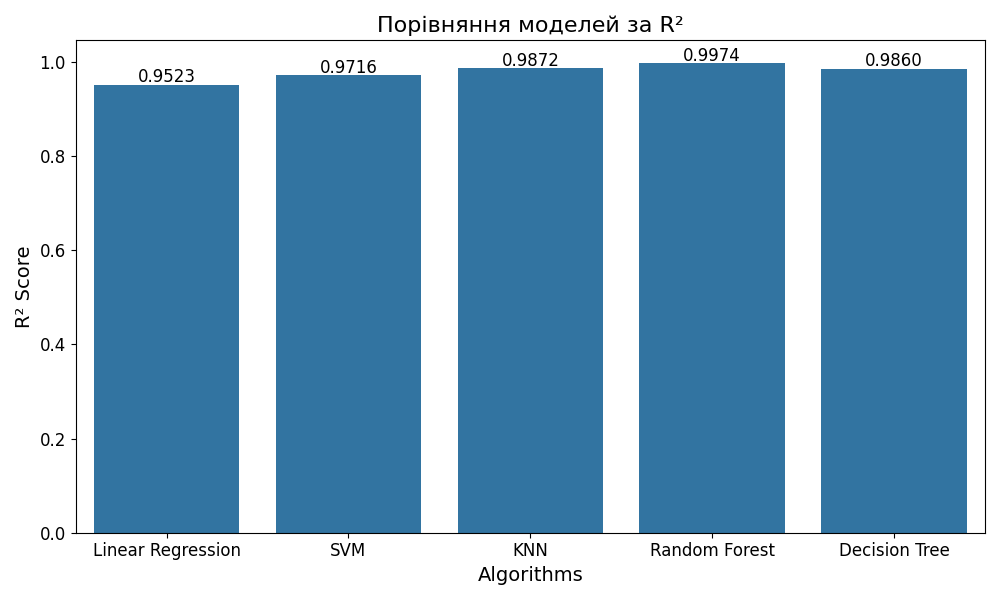
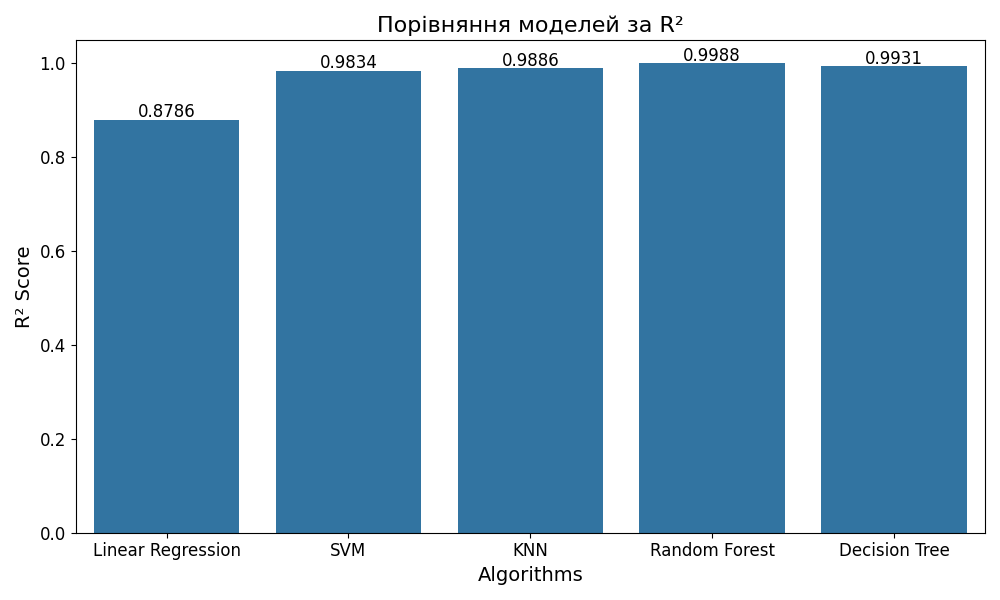
finish

diff --git a/insulin_dose.py b/insulin_dose.py
@@ -1,5 +1,6 @@
 import os
 import pandas as pd
+import numpy as np
 import seaborn as sns
 import matplotlib.pyplot as plt
 from sklearn.model_selection import train_test_split
@@ -11,113 +12,77 @@ from sklearn.ensemble import RandomForestRegressor
 from sklearn.tree import DecisionTreeRegressor
 from sklearn.metrics import mean_squared_error, r2_score
 
-def load_data(folder_path):
-    all_files = [os.path.join(folder_path, f) for f in os.listdir(folder_path) if f.endswith('.csv')]
-    data_list = []
+folder_path = "data/"
+all_files = [os.path.join(folder_path, f) for f in os.listdir(folder_path) if f.endswith('.csv')]
+data_list = []
 
-    for file in all_files:
-        temp_data = pd.read_csv(file, delimiter=';')
-        temp_data['patient_id'] = os.path.basename(file).split('.')[0]
-        data_list.append(temp_data)
+for file in all_files:
+    temp_data = pd.read_csv(file, delimiter=';')
+    temp_data['patient_id'] = os.path.basename(file).split('.')[0]
+    data_list.append(temp_data)
 
-    data = pd.concat(data_list, ignore_index=True)
-    data['time'] = pd.to_datetime(data['time'])
-    data['time_of_day'] = data['time'].dt.hour
-    return data
-
+data = pd.concat(data_list, ignore_index=True)
+data['time'] = pd.to_datetime(data['time'])
+data['time_of_day'] = data['time'].dt.hour
 
 def calculate_correction_insulin(row, target_glucose=120, correction_factor=45):
     correction = max(0, (row['glucose'] - target_glucose) / correction_factor)
     carb_effect = row.get('carb_input', 0) / 10
     basal_effect = row.get('basal_rate', 0) / 2
     bolus_effect = row.get('bolus_volume_delivered', 0)
+    heart_rate_effect = (row['heart_rate'] / 100) * 0.5
+    steps_effect = (row['steps'] / 10000) * 0.5
+    calorie_effect = (row['calories'] / 200) * 0.3
+    return max(0, correction + carb_effect - basal_effect - bolus_effect - heart_rate_effect - steps_effect - calorie_effect)
 
-    # Додавання ефекту від ЧСС та кількості кроків
-    heart_rate_effect = (row['heart_rate'] / 100) * 0.5  # ЧСС поділяємо на 100 і множимо на 0.5
-    steps_effect = (row['steps'] / 10000) * 0.5  # Кількість кроків поділяємо на 10000 і множимо на 0.5
+data['insulin_dose'] = data.apply(calculate_correction_insulin, axis=1)
 
-    return correction + carb_effect - basal_effect - bolus_effect - heart_rate_effect - steps_effect
-
-def prepare_features(data):
-    data['insulin_dose'] = data.apply(calculate_correction_insulin, axis=1)
-    X = data[['glucose', 'calories', 'basal_rate', 'bolus_volume_delivered', 'carb_input', 'time_of_day', 'heart_rate', 'steps']].fillna(0)
-    y = data['insulin_dose']
-    return X, y
-
-
-def train_models(X_train, y_train):
-    models = {
-        "Linear Regression": LinearRegression(),
-        "SVM": SVR(kernel='rbf', C=1, gamma='scale'),
-        "KNN": KNeighborsRegressor(n_neighbors=5, weights='distance'),
-        "Random Forest": RandomForestRegressor(n_estimators=200, max_depth=15, random_state=42),
-        "Decision Tree": DecisionTreeRegressor(max_depth=8, random_state=42)
-    }
-    trained_models = {name: model.fit(X_train, y_train) for name, model in models.items()}
-    return trained_models
-
-
-def evaluate_models(models, X_test, y_test):
-    results = {
-        name: {
-            "MSE": mean_squared_error(y_test, model.predict(X_test)),
-            "R²": r2_score(y_test, model.predict(X_test))
-        }
-        for name, model in models.items()
-    }
-    return pd.DataFrame(results).T
-
-
-def plot_results(results_df):
-    plt.figure(figsize=(10, 6))
-    sns.barplot(x=results_df.index, y=results_df["R²"])
-    plt.title("Порівняння моделей за R²", fontsize=16)
-    plt.ylabel("R² Score", fontsize=14)
-    plt.xlabel("Algorithms", fontsize=14)
-    plt.xticks(rotation=0, fontsize=12)
-    plt.yticks(fontsize=12)
-    for index, value in enumerate(results_df["R²"]):
-        plt.text(index, value + 0.005, f'{value:.4f}', ha='center', fontsize=12, color='black')
-    plt.tight_layout()
-    os.makedirs("results", exist_ok=True)
-    plt.savefig("results/result_algorithms.png")
-
-
-def predict_insulin(models, scaler, new_data):
-    X_new = new_data[['glucose', 'calories', 'basal_rate', 'bolus_volume_delivered', 'carb_input', 'time_of_day', 'heart_rate', 'steps']].fillna(0)
-    X_new_scaled = scaler.transform(X_new)
-
-    for name, model in models.items():
-        new_data[f'insulin_dose_{name}'] = model.predict(X_new_scaled)
-
-
-    patient_dose = new_data.groupby('patient_id')[[f'insulin_dose_{name}' for name in models.keys()]].mean()
-    return patient_dose
-
-
-folder_path = "data/"
-data = load_data(folder_path)
-
-X, y = prepare_features(data)
+X = data[['glucose', 'calories', 'basal_rate', 'bolus_volume_delivered', 'carb_input', 'time_of_day', 'heart_rate', 'steps']].fillna(0)
+y = data['insulin_dose']
 
 scaler = StandardScaler()
 X_scaled = scaler.fit_transform(X)
 
 X_train, X_test, y_train, y_test = train_test_split(X_scaled, y, test_size=0.2, random_state=42)
 
-trained_models = train_models(X_train, y_train)
+models = {
+    "Linear Regression": LinearRegression(),
+    "SVM": SVR(kernel='rbf', C=1, gamma='scale'),
+    "KNN": KNeighborsRegressor(n_neighbors=5, weights='distance'),
+    "Random Forest": RandomForestRegressor(n_estimators=200, max_depth=15, random_state=42),
+    "Decision Tree": DecisionTreeRegressor(max_depth=8, random_state=42)
+}
 
-results_df = evaluate_models(trained_models, X_test, y_test)
+trained_models = {name: model.fit(X_train, y_train) for name, model in models.items()}
+
+results = {name: {"MSE": mean_squared_error(y_test, model.predict(X_test)), "R²": r2_score(y_test, model.predict(X_test))} for name, model in models.items()}
+results_df = pd.DataFrame(results).T
 print("Порівняння моделей за точністю:")
 print(results_df)
 
-plot_results(results_df)
+plt.figure(figsize=(10, 6))
+sns.barplot(x=results_df.index, y=results_df["R²"])
+plt.title("Порівняння моделей за R²", fontsize=16)
+plt.ylabel("R² Score", fontsize=14)
+plt.xlabel("Algorithms", fontsize=14)
+plt.xticks(rotation=0, fontsize=12)
+plt.yticks(fontsize=12)
 
-new_data = load_data(folder_path)
-predicted_doses = predict_insulin(trained_models, scaler, new_data)
+for index, value in enumerate(results_df["R²"]):
+    plt.text(index, value + 0.005, f'{value:.4f}', ha='center', fontsize=12, color='black')
 
+plt.tight_layout()
 os.makedirs("results", exist_ok=True)
-output_path = "results/new_insulin_doses_all_models.csv"
-predicted_doses.to_csv(output_path, index=True)
+plt.savefig("results/result_algorithms.png")
 
-print(predicted_doses)
+new_data = data.copy()
+X_new = new_data[['glucose', 'calories', 'basal_rate', 'bolus_volume_delivered', 'carb_input', 'time_of_day', 'heart_rate', 'steps']].fillna(0)
+X_new_scaled = scaler.transform(X_new)
+
+for name, model in models.items():
+    new_data[f'insulin_dose_{name}'] = np.maximum(0, model.predict(X_new_scaled))
+
+patient_dose = new_data.groupby('patient_id')[[f'insulin_dose_{name}' for name in models.keys()]].mean()
+output_path = "results/new_insulin_doses_all_models.csv"
+patient_dose.to_csv(output_path, index=True)
+print(patient_dose)
